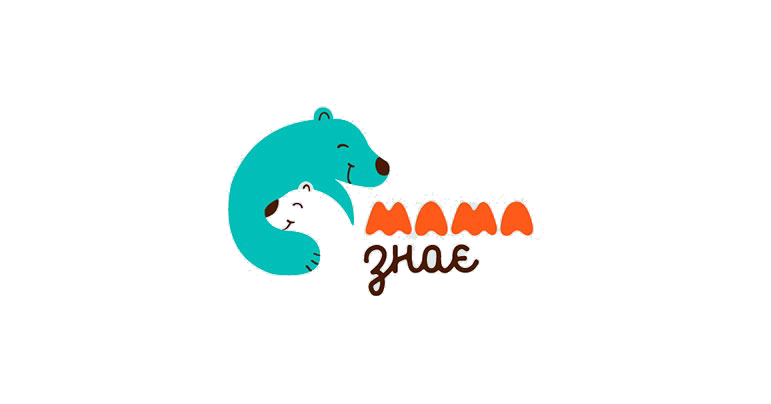
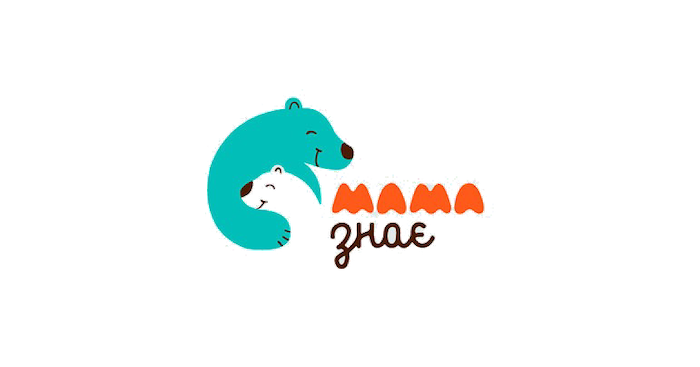
diseñando home

diff --git a/src/assets/views/templateLogin.js b/src/assets/views/templateLogin.js
@@ -9,9 +9,9 @@ export const templateLogin = () =>{
 		<div class="row">
 			
 			<div class="col-12"><input  id="txtEmail" type="email" placeholder="email"></div>
-			<div class="col-12"><p id="emailerror"></p></div>
+			<p class="col-12 error" id="emailerror"></p>
 			<div class="col-12"><input type="password" placeholder="contraseña" id="txtPassword"></div>
-			<div class="col-12"><p id="passerror"></p></div>
+			<p class="col-12 error" id="passerror"></p>
 			<div class="col-12"><input type="button" id="logIn" value="Iniciar sesión"></div>
 			<div class="col-12"><input type="button" id="logInGoogle" value="Acceder con Google"></div>
 			<div class="col-12"><input type="button" id="signUp" value="Registrarse"></div>
@@ -24,23 +24,29 @@ export const templateLogin = () =>{
 		let pass = document.getElementById('txtPassword').value;
 		let userSignIn = signIn(email,pass);
 		 /*IMPRESION VÁLIDACIONES EN EL DOM*/
+		const emailerror = document.getElementById('emailerror');
+		const passerror = document.getElementById('passerror');
         if(email==="" || !validateEmailSignIn(email)){
-            document.getElementById('emailerror').innerHTML=`Debes ingresar un correo válido.`;
+        	emailerror.style.display = "block";
+            emailerror.innerHTML=`Debes ingresar un correo válido.`;
         }else{
-            document.getElementById('emailerror').innerHTML='';
+        	emailerror.style.display = "none";
+            emailerror.innerHTML='';
         }
         
         if(pass==="" || pass.length<6){
-            document.getElementById('passerror').innerHTML=`Debes ingresar una contraseña con minimo 6 caracteres.`;
+        	passerror.style.display = "block";
+            passerror.innerHTML=`Debes ingresar una contraseña con minimo 6 caracteres.`;
         }else{
-            document.getElementById('passerror').innerHTML='';
+        	passerror.style.display = "none";
+            passerror.innerHTML='';
         }
 
-        if(userSignIn==="OK"){
-            console.log("usuario Ok");
-        } else {
-            console.log(userSignIn);
-        }
+        // if(userSignIn==="OK"){
+        //     console.log("usuario Ok");
+        // } else {
+        //     console.log(userSignIn);
+        // }
 	});
 
 	 document.getElementById('logInGoogle').addEventListener('click',()=>{

diff --git a/menu-hamburguesa/style.css b/menu-hamburguesa/style.css
@@ -1,12 +1,15 @@
+body{
+	background: #EAF2E3;
+}
 .container{
-	width: 95%;
+	width: 100%;
 	max-width: 1000px;
 	margin: 0 auto; 
 }
 header{
-	background-color: blue;
+	height: 100px;
+	background-color: #F4F1BB;
 	color: white;
-	padding: 1em 0;
 	position: relative;
 }
 header::after{
@@ -15,19 +18,12 @@ header::after{
 	display: block;
 
 }
-.logo{
-	float: left;
-	font-size: 1rem;
-	margin: 0;
-	text-transform: uppercase;
-	font-weight: 700;
 
-}
 .site-nav{
 	top: 100%;
 	right: 0;
 	position: absolute;
-	background-color: green;
+	background-color: #ff637d;
 	clip-path: circle(0px at top right);
 	transition: clip-path ease-in-out 700ms;
 }
@@ -41,27 +37,28 @@ header::after{
 
 }
 .site-nav li{
-	border-bottom: 1px solid black;
+	border-bottom: 1px solid #f4f1bb;
 
 }
 .site-nav li:last-child{
 	border-bottom: none;
 }
 .site-nav a{
-	color: white;
+	text-align: center;
+	color: #eaf2e3;
 	display: block;
-	padding: 2em 6em;
+	padding: 1em 4em;
 	text-transform: uppercase;
 	text-decoration: none;
 }
 .site-nav a:hover,
 .site-nav a:focus{
-	background: red;
-	color: yellow;
+	background: #66d7d1;
+	color: #ff637d;
 
 }
 .menu-toggle{
-	
+	margin-top: 1.4em;
 	padding: 1em;
 	position: absolute;
 	top:0.5em;
@@ -84,7 +81,7 @@ header::after{
 .hamburger::after{
 	content: '';
 	display: block;
-	background: red;
+	background: #ff637d;
 	height: 3px;
 	width: 1.75em;
 	border-radius: 3px;
@@ -99,6 +96,9 @@ header::after{
 	transform: translateY(3px);
 }
 @media (min-width: 700px){
+	header{
+		height: auto;
+	}
 	.menu-toggle{
 		display: none;
 
@@ -116,12 +116,20 @@ header::after{
 		border:none;
 	}
 	.site-nav a{
+		margin-top: 3.5em;
+		color:#66d7d1;
+		font-size: 13px;
 		padding: 0;
-		margin-left: 3em; 
+		margin-left: 1em; 
 	}
 	.site-nav a:hover,
 	.site-nav a:focus{
 		background: transparent;
 
 	}
+}
+img{
+	max-width: 70%;
+	margin-top: -15px;
+	margin-left: -40px;
 }

diff --git a/menu-hamburguesa/index.html b/menu-hamburguesa/index.html
@@ -5,37 +5,36 @@
 	<meta name="viewport" content="width=device-width, initial-scale=1.0">
 	<title>Document</title>
 	<link rel="stylesheet" href="style.css">
+	<link rel="stylesheet" href="./../src/assets/css/simple-grid.css">
 </head>
 <body>
 	<header>
-		<div class="container">
-			<h1 class="logo">Logo</h1>
-		</div>
+		<a href="#"><img  src="./../src/assets/img/mamasabe2.png" alt="logo"></a>			
 		<nav id="site-nav" class="site-nav">
 			<ul>
 				<li>
 					<a href="">
-						home
+						perfil
 					</a>
 				</li>
 				<li>
 					<a href="">
-						home
+						tabla de tía
 					</a>
 				</li>
 				<li>
 					<a href="">
-						home
+						tabla de directora
 					</a>
 				</li>
 				<li>
 					<a href="">
-						home
+						tabla de papas
 					</a>
 				</li>
 				<li>
 					<a href="">
-						home
+						cerrar sesión
 					</a>
 				</li>
 			</ul>

diff --git a/src/assets/css/style.css b/src/assets/css/style.css
@@ -27,3 +27,6 @@ img{
 	display: block;
 	max-width: 100%;
 }
+.error {
+	display: none;
+}
